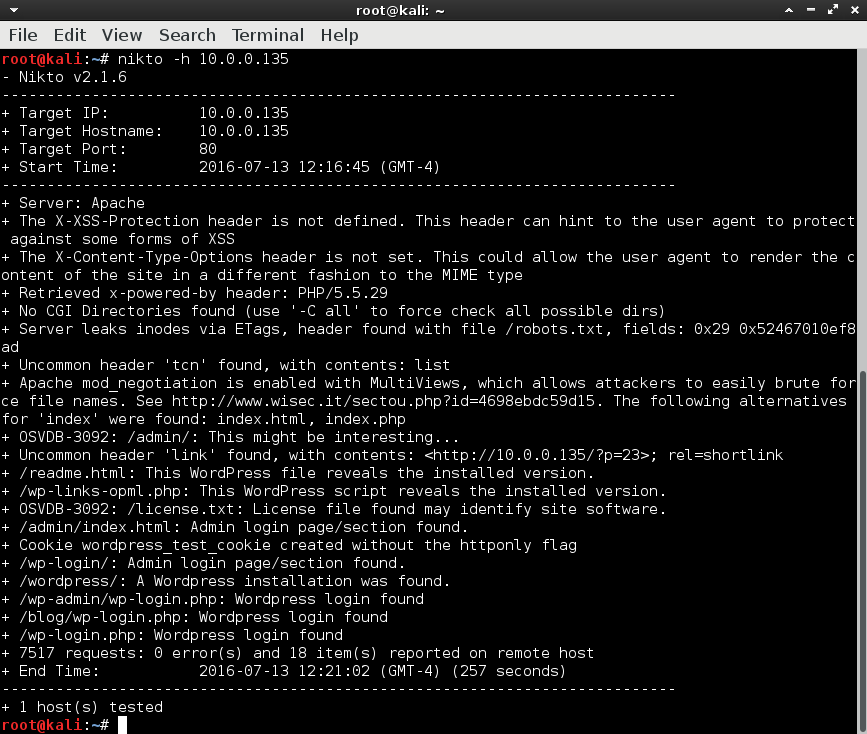
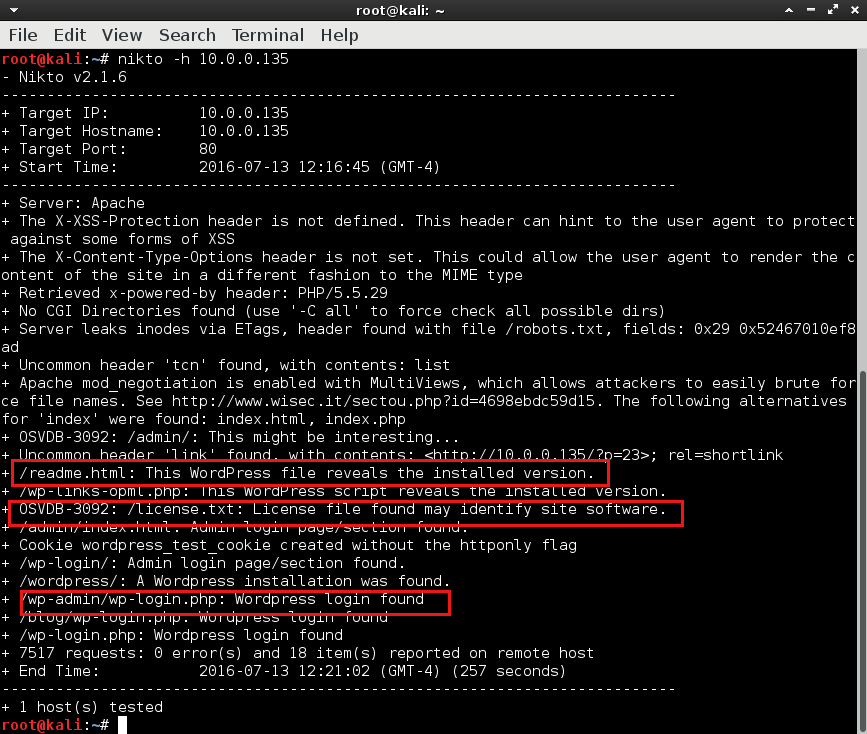
added more to mr.robot

Changed region(s): [[0.0, 0.6294, 0.8097, 0.7193], [0.0, 0.7793, 0.5294, 0.8392], [0.0311, 0.5995, 0.6851, 0.6294]]

diff --git a/author/me-gogo.html b/author/me-gogo.html
@@ -25,21 +25,51 @@
 <footer class="post-info">
         <span>Wed 13 July 2016</span>
 
-</footer><!-- /.post-info --><p><strong>First lets find the target in our network:</strong></p>
+</footer><!-- /.post-info --><p>First lets find the target in our network:</p>
 <p><img alt="netdiscover target" src="images/1_netdiscover.png" /></p>
-<p><strong>Our target machine is 10.0.0.135, lets run nmap scan on it:</strong></p>
+<p>Our target machine is 10.0.0.135, lets run nmap scan on it:</p>
 <p><img alt="nmap scan target" src="images/2_nmap.png" /></p>
 <p>Nothing interesting just web server, and close ssh port 22.
-Brouse the target and run nikto on the web server.</p>
-<p><img alt="nikto scan target" src="images/3_nikto.png" /></p>
-<p>From nikto scan we found robots.txt file on the server:</p>
+Browse the target and run nikto on the web server.</p>
+<p><img alt="nikto scan target" src="images/3_nikto.png" />
+The site is wordpress. The interesting things are in red.</p>
+<p>Spidering the site from Owasp Zap and found robots.txt:</p>
 <p><img alt="robots.txt on target" src="images/4_robots_txt.png" /></p>
 <p>We are able to locate the first of three keys :)</p>
 <p><img alt="first key is found" src="images/5_first_key.png" /></p>
-<p>Exploring after nikto scan, and in license.txt we found some encrypt text</p>
+<p>Exploring after nikto scan, and in license.txt we found some encrypt text,
+thanks to firebug. The text was hidden on the bottom of the page after long
+blank space.</p>
 <p><img alt="found encrypted text" src="images/6_license_txt_key.png" /></p>
-<p>Use Zap to decypt the previously found txt:</p>
-<p><img alt="zap decrypt txt" src="images/7_zap_decode_hash.png" /></p>                </article>
+<p>Run the encrypted text through HashID but I can't determine it's type. Then I 
+decide to try it in Owasp Zap, and decrypt it as base64:</p>
+<p><img alt="zap decrypt txt" src="images/7_zap_decode_hash.png" /></p>
+<p>This is the username:password. I tried to log in with this credentials and
+this is the result:</p>
+<p><img alt="" src="images/8_in_the_wp.png" /></p>
+<p>We are successfully log in to the admin panel. Now I think about how to upload
+reverse shell. We know that WordPress is Php based, so I decide to upload php
+reverse shell in the footer of the theme:</p>
+<p><img alt="" src="images/9_upload_shell.png" /></p>
+<p>Catching the reverse shell with ncat and we are daemon on the target machine:</p>
+<p><img alt="" src="images/10_catch_reverse_shell.png" /></p>
+<p>After looking around I locate the second key. But we weren't able to read it
+because of permissions.</p>
+<p><img alt="" src="images/11_locate_second_key.png" /></p>
+<p>Let's try to crack the freshly found md5 hash. I didn't want to fire up John
+for this, so i ended up looking online at crackstation for decrypt it. The
+    password is the alphabet.</p>
+<p><img alt="" src="images/12_crack_md5.png" /></p>
+<p>Now I try to log in as SU but my shell didn't allow me to do that, perhaps i
+need to spawn /bin/bash:</p>
+<p><img alt="" src="images/13_cant_su.png" /></p>
+<p>So i upgrade the shell with this python script, and log in successfully as
+robot user:</p>
+<p><img alt="" src="images/14_upgrade_shell_with_py.png" /></p>
+<p>Now we can read the second key:</p>
+<p><img alt="" src="images/15_key2found.png" /></p>
+<p>I can't find the last key for now ... Probably i will need root access to the
+target machine, but for now didn't find a way to obtain it.</p>                </article>
 <p class="paginator">
     Page 1 / 1
 </p>
@@ -58,9 +88,9 @@ Brouse the target and run nikto on the web server.</p>
                         <h2>social</h2>
                         <ul>
 
-                            <li><a href="www.facebook.com/np">facebook</a></li>
-                            <li><a href="www.github.com/np">github</a></li>
-                            <li><a href="www.twitter.com/np">twitter</a></li>
+                            <li><a href=""></a></li>
+                            <li><a href="https://github.com/NikolaPavlov/">github</a></li>
+                            <li><a href="www.twitter.com/gggg">twitter</a></li>
                         </ul>
                 </div><!-- /.social -->
         </section><!-- /#extras -->

diff --git a/category/ctf.html b/category/ctf.html
@@ -25,21 +25,51 @@
 <footer class="post-info">
         <span>Wed 13 July 2016</span>
 
-</footer><!-- /.post-info --><p><strong>First lets find the target in our network:</strong></p>
+</footer><!-- /.post-info --><p>First lets find the target in our network:</p>
 <p><img alt="netdiscover target" src="images/1_netdiscover.png" /></p>
-<p><strong>Our target machine is 10.0.0.135, lets run nmap scan on it:</strong></p>
+<p>Our target machine is 10.0.0.135, lets run nmap scan on it:</p>
 <p><img alt="nmap scan target" src="images/2_nmap.png" /></p>
 <p>Nothing interesting just web server, and close ssh port 22.
-Brouse the target and run nikto on the web server.</p>
-<p><img alt="nikto scan target" src="images/3_nikto.png" /></p>
-<p>From nikto scan we found robots.txt file on the server:</p>
+Browse the target and run nikto on the web server.</p>
+<p><img alt="nikto scan target" src="images/3_nikto.png" />
+The site is wordpress. The interesting things are in red.</p>
+<p>Spidering the site from Owasp Zap and found robots.txt:</p>
 <p><img alt="robots.txt on target" src="images/4_robots_txt.png" /></p>
 <p>We are able to locate the first of three keys :)</p>
 <p><img alt="first key is found" src="images/5_first_key.png" /></p>
-<p>Exploring after nikto scan, and in license.txt we found some encrypt text</p>
+<p>Exploring after nikto scan, and in license.txt we found some encrypt text,
+thanks to firebug. The text was hidden on the bottom of the page after long
+blank space.</p>
 <p><img alt="found encrypted text" src="images/6_license_txt_key.png" /></p>
-<p>Use Zap to decypt the previously found txt:</p>
-<p><img alt="zap decrypt txt" src="images/7_zap_decode_hash.png" /></p>                </article>
+<p>Run the encrypted text through HashID but I can't determine it's type. Then I 
+decide to try it in Owasp Zap, and decrypt it as base64:</p>
+<p><img alt="zap decrypt txt" src="images/7_zap_decode_hash.png" /></p>
+<p>This is the username:password. I tried to log in with this credentials and
+this is the result:</p>
+<p><img alt="" src="images/8_in_the_wp.png" /></p>
+<p>We are successfully log in to the admin panel. Now I think about how to upload
+reverse shell. We know that WordPress is Php based, so I decide to upload php
+reverse shell in the footer of the theme:</p>
+<p><img alt="" src="images/9_upload_shell.png" /></p>
+<p>Catching the reverse shell with ncat and we are daemon on the target machine:</p>
+<p><img alt="" src="images/10_catch_reverse_shell.png" /></p>
+<p>After looking around I locate the second key. But we weren't able to read it
+because of permissions.</p>
+<p><img alt="" src="images/11_locate_second_key.png" /></p>
+<p>Let's try to crack the freshly found md5 hash. I didn't want to fire up John
+for this, so i ended up looking online at crackstation for decrypt it. The
+    password is the alphabet.</p>
+<p><img alt="" src="images/12_crack_md5.png" /></p>
+<p>Now I try to log in as SU but my shell didn't allow me to do that, perhaps i
+need to spawn /bin/bash:</p>
+<p><img alt="" src="images/13_cant_su.png" /></p>
+<p>So i upgrade the shell with this python script, and log in successfully as
+robot user:</p>
+<p><img alt="" src="images/14_upgrade_shell_with_py.png" /></p>
+<p>Now we can read the second key:</p>
+<p><img alt="" src="images/15_key2found.png" /></p>
+<p>I can't find the last key for now ... Probably i will need root access to the
+target machine, but for now didn't find a way to obtain it.</p>                </article>
 <p class="paginator">
     Page 1 / 1
 </p>
@@ -58,9 +88,9 @@ Brouse the target and run nikto on the web server.</p>
                         <h2>social</h2>
                         <ul>
 
-                            <li><a href="www.facebook.com/np">facebook</a></li>
-                            <li><a href="www.github.com/np">github</a></li>
-                            <li><a href="www.twitter.com/np">twitter</a></li>
+                            <li><a href=""></a></li>
+                            <li><a href="https://github.com/NikolaPavlov/">github</a></li>
+                            <li><a href="www.twitter.com/gggg">twitter</a></li>
                         </ul>
                 </div><!-- /.social -->
         </section><!-- /#extras -->

diff --git a/index.html b/index.html
@@ -25,21 +25,51 @@
 <footer class="post-info">
         <span>Wed 13 July 2016</span>
 
-</footer><!-- /.post-info --><p><strong>First lets find the target in our network:</strong></p>
+</footer><!-- /.post-info --><p>First lets find the target in our network:</p>
 <p><img alt="netdiscover target" src="images/1_netdiscover.png" /></p>
-<p><strong>Our target machine is 10.0.0.135, lets run nmap scan on it:</strong></p>
+<p>Our target machine is 10.0.0.135, lets run nmap scan on it:</p>
 <p><img alt="nmap scan target" src="images/2_nmap.png" /></p>
 <p>Nothing interesting just web server, and close ssh port 22.
-Brouse the target and run nikto on the web server.</p>
-<p><img alt="nikto scan target" src="images/3_nikto.png" /></p>
-<p>From nikto scan we found robots.txt file on the server:</p>
+Browse the target and run nikto on the web server.</p>
+<p><img alt="nikto scan target" src="images/3_nikto.png" />
+The site is wordpress. The interesting things are in red.</p>
+<p>Spidering the site from Owasp Zap and found robots.txt:</p>
 <p><img alt="robots.txt on target" src="images/4_robots_txt.png" /></p>
 <p>We are able to locate the first of three keys :)</p>
 <p><img alt="first key is found" src="images/5_first_key.png" /></p>
-<p>Exploring after nikto scan, and in license.txt we found some encrypt text</p>
+<p>Exploring after nikto scan, and in license.txt we found some encrypt text,
+thanks to firebug. The text was hidden on the bottom of the page after long
+blank space.</p>
 <p><img alt="found encrypted text" src="images/6_license_txt_key.png" /></p>
-<p>Use Zap to decypt the previously found txt:</p>
-<p><img alt="zap decrypt txt" src="images/7_zap_decode_hash.png" /></p>                </article>
+<p>Run the encrypted text through HashID but I can't determine it's type. Then I 
+decide to try it in Owasp Zap, and decrypt it as base64:</p>
+<p><img alt="zap decrypt txt" src="images/7_zap_decode_hash.png" /></p>
+<p>This is the username:password. I tried to log in with this credentials and
+this is the result:</p>
+<p><img alt="" src="images/8_in_the_wp.png" /></p>
+<p>We are successfully log in to the admin panel. Now I think about how to upload
+reverse shell. We know that WordPress is Php based, so I decide to upload php
+reverse shell in the footer of the theme:</p>
+<p><img alt="" src="images/9_upload_shell.png" /></p>
+<p>Catching the reverse shell with ncat and we are daemon on the target machine:</p>
+<p><img alt="" src="images/10_catch_reverse_shell.png" /></p>
+<p>After looking around I locate the second key. But we weren't able to read it
+because of permissions.</p>
+<p><img alt="" src="images/11_locate_second_key.png" /></p>
+<p>Let's try to crack the freshly found md5 hash. I didn't want to fire up John
+for this, so i ended up looking online at crackstation for decrypt it. The
+    password is the alphabet.</p>
+<p><img alt="" src="images/12_crack_md5.png" /></p>
+<p>Now I try to log in as SU but my shell didn't allow me to do that, perhaps i
+need to spawn /bin/bash:</p>
+<p><img alt="" src="images/13_cant_su.png" /></p>
+<p>So i upgrade the shell with this python script, and log in successfully as
+robot user:</p>
+<p><img alt="" src="images/14_upgrade_shell_with_py.png" /></p>
+<p>Now we can read the second key:</p>
+<p><img alt="" src="images/15_key2found.png" /></p>
+<p>I can't find the last key for now ... Probably i will need root access to the
+target machine, but for now didn't find a way to obtain it.</p>                </article>
 <p class="paginator">
     Page 1 / 1
 </p>
@@ -58,9 +88,9 @@ Brouse the target and run nikto on the web server.</p>
                         <h2>social</h2>
                         <ul>
 
-                            <li><a href="www.facebook.com/np">facebook</a></li>
-                            <li><a href="www.github.com/np">github</a></li>
-                            <li><a href="www.twitter.com/np">twitter</a></li>
+                            <li><a href=""></a></li>
+                            <li><a href="https://github.com/NikolaPavlov/">github</a></li>
+                            <li><a href="www.twitter.com/gggg">twitter</a></li>
                         </ul>
                 </div><!-- /.social -->
         </section><!-- /#extras -->

diff --git a/mr-robot-ctf.html b/mr-robot-ctf.html
@@ -30,21 +30,51 @@
 <footer class="post-info">
         <span>Wed 13 July 2016</span>
 
-</footer><!-- /.post-info -->      <p><strong>First lets find the target in our network:</strong></p>
+</footer><!-- /.post-info -->      <p>First lets find the target in our network:</p>
 <p><img alt="netdiscover target" src="images/1_netdiscover.png" /></p>
-<p><strong>Our target machine is 10.0.0.135, lets run nmap scan on it:</strong></p>
+<p>Our target machine is 10.0.0.135, lets run nmap scan on it:</p>
 <p><img alt="nmap scan target" src="images/2_nmap.png" /></p>
 <p>Nothing interesting just web server, and close ssh port 22.
-Brouse the target and run nikto on the web server.</p>
-<p><img alt="nikto scan target" src="images/3_nikto.png" /></p>
-<p>From nikto scan we found robots.txt file on the server:</p>
+Browse the target and run nikto on the web server.</p>
+<p><img alt="nikto scan target" src="images/3_nikto.png" />
+The site is wordpress. The interesting things are in red.</p>
+<p>Spidering the site from Owasp Zap and found robots.txt:</p>
 <p><img alt="robots.txt on target" src="images/4_robots_txt.png" /></p>
 <p>We are able to locate the first of three keys :)</p>
 <p><img alt="first key is found" src="images/5_first_key.png" /></p>
-<p>Exploring after nikto scan, and in license.txt we found some encrypt text</p>
+<p>Exploring after nikto scan, and in license.txt we found some encrypt text,
+thanks to firebug. The text was hidden on the bottom of the page after long
+blank space.</p>
 <p><img alt="found encrypted text" src="images/6_license_txt_key.png" /></p>
-<p>Use Zap to decypt the previously found txt:</p>
+<p>Run the encrypted text through HashID but I can't determine it's type. Then I 
+decide to try it in Owasp Zap, and decrypt it as base64:</p>
 <p><img alt="zap decrypt txt" src="images/7_zap_decode_hash.png" /></p>
+<p>This is the username:password. I tried to log in with this credentials and
+this is the result:</p>
+<p><img alt="" src="images/8_in_the_wp.png" /></p>
+<p>We are successfully log in to the admin panel. Now I think about how to upload
+reverse shell. We know that WordPress is Php based, so I decide to upload php
+reverse shell in the footer of the theme:</p>
+<p><img alt="" src="images/9_upload_shell.png" /></p>
+<p>Catching the reverse shell with ncat and we are daemon on the target machine:</p>
+<p><img alt="" src="images/10_catch_reverse_shell.png" /></p>
+<p>After looking around I locate the second key. But we weren't able to read it
+because of permissions.</p>
+<p><img alt="" src="images/11_locate_second_key.png" /></p>
+<p>Let's try to crack the freshly found md5 hash. I didn't want to fire up John
+for this, so i ended up looking online at crackstation for decrypt it. The
+    password is the alphabet.</p>
+<p><img alt="" src="images/12_crack_md5.png" /></p>
+<p>Now I try to log in as SU but my shell didn't allow me to do that, perhaps i
+need to spawn /bin/bash:</p>
+<p><img alt="" src="images/13_cant_su.png" /></p>
+<p>So i upgrade the shell with this python script, and log in successfully as
+robot user:</p>
+<p><img alt="" src="images/14_upgrade_shell_with_py.png" /></p>
+<p>Now we can read the second key:</p>
+<p><img alt="" src="images/15_key2found.png" /></p>
+<p>I can't find the last key for now ... Probably i will need root access to the
+target machine, but for now didn't find a way to obtain it.</p>
     </div><!-- /.entry-content -->
 
   </article>
@@ -61,9 +91,9 @@ Brouse the target and run nikto on the web server.</p>
                         <h2>social</h2>
                         <ul>
 
-                            <li><a href="www.facebook.com/np">facebook</a></li>
-                            <li><a href="www.github.com/np">github</a></li>
-                            <li><a href="www.twitter.com/np">twitter</a></li>
+                            <li><a href=""></a></li>
+                            <li><a href="https://github.com/NikolaPavlov/">github</a></li>
+                            <li><a href="www.twitter.com/gggg">twitter</a></li>
                         </ul>
                 </div><!-- /.social -->
         </section><!-- /#extras -->

diff --git a/archives.html b/archives.html
@@ -38,9 +38,9 @@
                         <h2>social</h2>
                         <ul>
 
-                            <li><a href="www.facebook.com/np">facebook</a></li>
-                            <li><a href="www.github.com/np">github</a></li>
-                            <li><a href="www.twitter.com/np">twitter</a></li>
+                            <li><a href=""></a></li>
+                            <li><a href="https://github.com/NikolaPavlov/">github</a></li>
+                            <li><a href="www.twitter.com/gggg">twitter</a></li>
                         </ul>
                 </div><!-- /.social -->
         </section><!-- /#extras -->

diff --git a/authors.html b/authors.html
@@ -35,9 +35,9 @@
                         <h2>social</h2>
                         <ul>
 
-                            <li><a href="www.facebook.com/np">facebook</a></li>
-                            <li><a href="www.github.com/np">github</a></li>
-                            <li><a href="www.twitter.com/np">twitter</a></li>
+                            <li><a href=""></a></li>
+                            <li><a href="https://github.com/NikolaPavlov/">github</a></li>
+                            <li><a href="www.twitter.com/gggg">twitter</a></li>
                         </ul>
                 </div><!-- /.social -->
         </section><!-- /#extras -->

diff --git a/categories.html b/categories.html
@@ -33,9 +33,9 @@
                         <h2>social</h2>
                         <ul>
 
-                            <li><a href="www.facebook.com/np">facebook</a></li>
-                            <li><a href="www.github.com/np">github</a></li>
-                            <li><a href="www.twitter.com/np">twitter</a></li>
+                            <li><a href=""></a></li>
+                            <li><a href="https://github.com/NikolaPavlov/">github</a></li>
+                            <li><a href="www.twitter.com/gggg">twitter</a></li>
                         </ul>
                 </div><!-- /.social -->
         </section><!-- /#extras -->

diff --git a/tags.html b/tags.html
@@ -34,9 +34,9 @@
                         <h2>social</h2>
                         <ul>
 
-                            <li><a href="www.facebook.com/np">facebook</a></li>
-                            <li><a href="www.github.com/np">github</a></li>
-                            <li><a href="www.twitter.com/np">twitter</a></li>
+                            <li><a href=""></a></li>
+                            <li><a href="https://github.com/NikolaPavlov/">github</a></li>
+                            <li><a href="www.twitter.com/gggg">twitter</a></li>
                         </ul>
                 </div><!-- /.social -->
         </section><!-- /#extras -->
